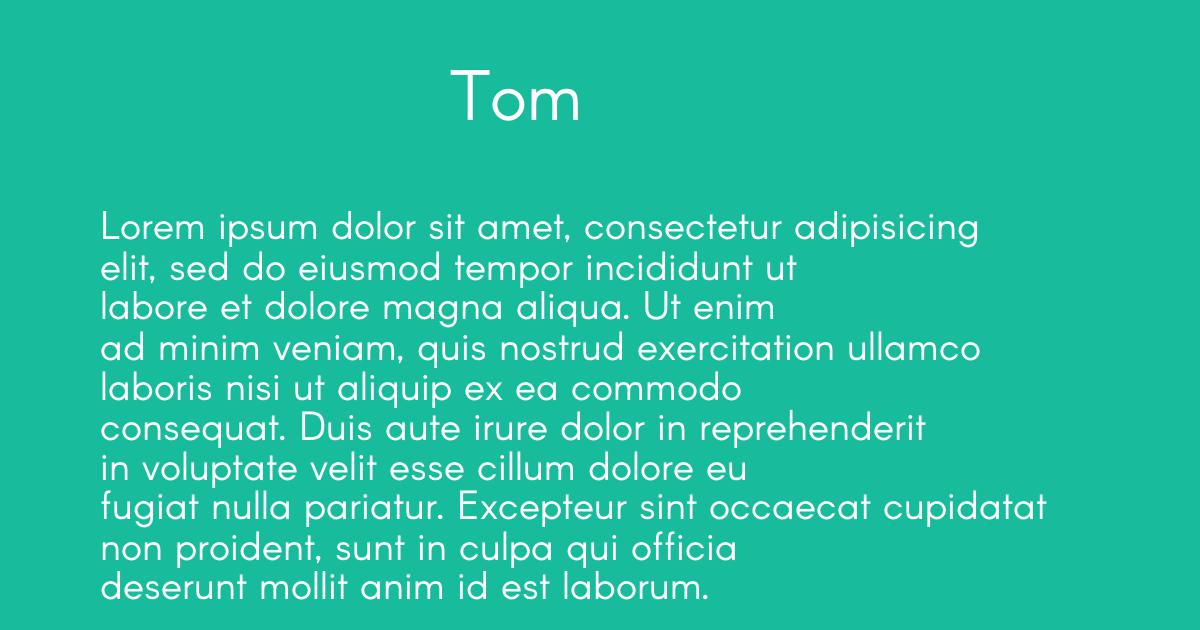
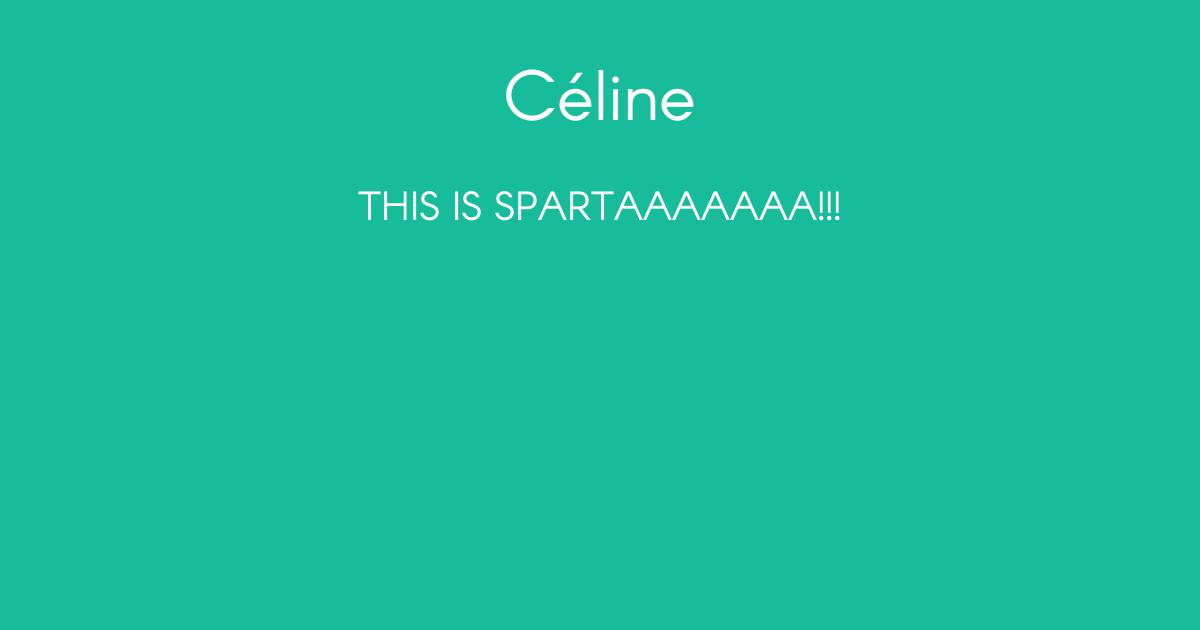
Image jpp

Changed region(s): [[0.0617, 0.6032, 0.8942, 0.9651], [0.0617, 0.3016, 0.8325, 0.573], [0.37, 0.0905, 0.5858, 0.2111]]

diff --git a/fbapp/utils.py b/fbapp/utils.py
@@ -1,4 +1,7 @@
 import random
+from PIL import Image, ImageFont, ImageDraw
+import textwrap
+import os
 
 from fbapp.models import Content, Gender
 
@@ -6,3 +9,57 @@ from fbapp.models import Content, Gender
 def find_content(gender):
     contents = Content.query.filter(Content.gender == Gender[gender]).all()
     return random.choice(contents)
+
+
+class OpenGraphImage:
+    """
+    The image that is shared
+    """
+
+    def __init__(self, uid, first_name, desc):
+        self.uid = uid
+        background = self.base()
+        self.location = self._location()
+        # Print first_name
+        self.print_on_img(background, first_name.capitalize(), 70, 50)
+
+        # Print description
+        sentences = textwrap.wrap(desc, width=60)
+        current_h, pad = 180, 10
+
+        for sentence in sentences:
+            w, h = self.print_on_img(background, sentence, 40, current_h)
+            current_h += h + pad
+
+        background.save(self._path())
+
+    @staticmethod
+    def base():
+        # Create a basic image
+        img = Image.new('RGB', (1200, 630), '#18BC9C')
+        return img
+
+    @staticmethod
+    def print_on_img(img, text, size, height):
+        font = ImageFont.truetype(os.path.join('fbapp', 'static', 'fonts', 'Arcon-Regular.otf'), size)
+        draw = ImageDraw.Draw(img)
+        w, h = draw.textsize(text, font)
+        position = ((img.width - w) / 2, height)
+        draw.text(position, text, (255, 255, 255), font=font)
+        return w, h
+
+    def _location(self):
+        return 'tmp/{}.jpg'.format(self.uid)
+
+    def _path(self):
+        return os.path.join('fbapp', 'static', 'tmp', '{}.jpg'.format(self.uid))
+
+
+
+description = """
+    Toi, tu sais comment utiliser la console ! Jamais à court d'idées pour réaliser ton objectif, tu es déterminé-e et persévérant-e. Tes amis disent d'ailleurs volontiers que tu as du caractère et que tu ne te laisses pas marcher sur les pieds. Un peu hacker sur les bords, tu aimes trouver des solutions à tout problème. N'aurais-tu pas un petit problème d'autorité ? ;-)
+    """
+
+if __name__ == "__main__":
+    print('Puteuh')
+    OpenGraphImage('Céline', description)

diff --git a/fbapp/views.py b/fbapp/views.py
@@ -7,7 +7,7 @@ app = Flask(__name__)
 app.config.from_object('config')
 # To get one variable, tape app.config['MY_VARIABLE']
 
-from .utils import find_content
+from .utils import find_content, OpenGraphImage
 
 
 @app.route('/')
@@ -30,7 +30,8 @@ def index():
                            description=description,
                            blur=True,
                            page_title=page_title,
-                           og_url=og_url
+                           og_url=og_url,
+                           og_img=img
                            )
 
 
@@ -47,7 +48,7 @@ def result():
     # print(description)
     user_name = request.args.get("first_name")
     uid = request.args.get("id")
-    og_img = "tmp/sample.jpg"
+    og_img = OpenGraphImage(uid, user_name, description).location
     og_url = url_for("static", filename=og_img, _external=True)
     profile_pic = 'http://graph.facebook.com/' + uid + '/picture?type=large'
     return render_template("result.html",

diff --git a/fbapp/models.py b/fbapp/models.py
@@ -29,6 +29,7 @@ def init_db():
     db.drop_all()
     db.create_all()
     db.session.add(Content("THIS IS SPARTAAAAAAA!!!", Gender['male']))
+    db.session.add(Content("J'aime les tartes", Gender['female']))
     db.session.add(Content("What's your favorite scary movie?", Gender['other']))
     db.session.commit()
     lg.warning('Database initialized!')
